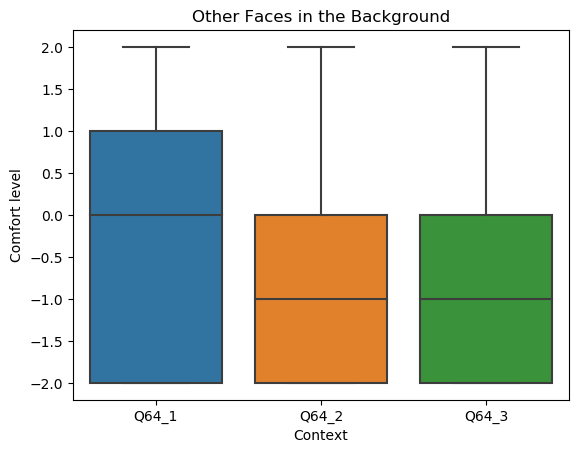
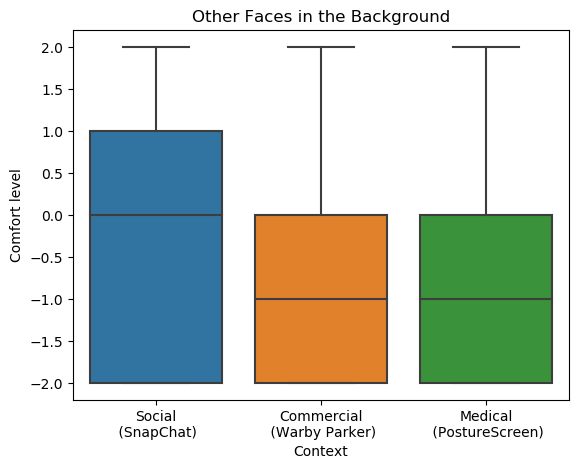
Updated graphs to infer context and group accordingly

diff --git a/data_analysis_ar_attitudes.py b/data_analysis_ar_attitudes.py
@@ -117,35 +117,37 @@ LABEL_DEMO_COUNTRY  = 'Country'
 LABEL_DEMO_EDU      = 'Education Level'
 LABEL_DEMO_TECHIE   = 'Tech-Savviness'
 
-D_VIS_FACE_CORE     = (COL_VIS_FACE_CORE,   LABEL_VIS_FACE_CORE)
-D_AUD_INTENTIONAL   = (COL_AUD_INTENTIONAL, LABEL_AUD_INTENTIONAL)
-D_AUD_BACKGROUND    = (COL_AUD_BACKGROUND,  LABEL_AUD_BACKGROUND)
-D_VIS_PUPIL         = (COL_VIS_PUPIL,       LABEL_VIS_PUPIL)
-D_VIS_BKGD_OTHERS   = (COL_VIS_BKGD_OTHERS,   LABEL_VIS_BKGD_OTHERS)
-D_VIS_BKGD_ME       = (COL_VIS_BKGD_ME,       LABEL_VIS_BKGD_ME)
-D_VIS_FACE_ALG      = (COL_VIS_FACE_ALG,      LABEL_VIS_FACE_ALG)
-D_VIS_NN_INTENT     = (COL_VIS_NN_INTENT,     LABEL_VIS_NN_INTENT)
-D_VIS_NN_ACCIDENT   = (COL_VIS_NN_ACCIDENT,   LABEL_VIS_NN_ACCIDENT)
-D_VIS_OBJ_MEDS      = (COL_VIS_OBJ_MEDS,      LABEL_VIS_OBJ_MEDS)
-D_VIS_OBJ_SEX       = (COL_VIS_OBJ_SEX,       LABEL_VIS_OBJ_SEX)
-D_VIS_OBJ_MESSY     = (COL_VIS_OBJ_MESSY,     LABEL_VIS_OBJ_MESSY)
-D_VIS_OBJ_LICENSE   = (COL_VIS_OBJ_LICENSE,   LABEL_VIS_OBJ_LICENSE)
-D_LOCATION          = (COL_LOCATION,          LABEL_LOCATION)
-D_PAYMENT           = (COL_PAYMENT,           LABEL_PAYMENT)
+label_of = {}
+label_of[COL_AUD_INTENTIONAL]   = LABEL_AUD_INTENTIONAL
+label_of[COL_AUD_BACKGROUND]    = LABEL_AUD_BACKGROUND
 
+label_of[COL_VIS_FACE_CORE]     = LABEL_VIS_FACE_CORE
+label_of[COL_VIS_PUPIL]         = LABEL_VIS_PUPIL
+label_of[COL_VIS_BKGD_OTHERS]   = LABEL_VIS_BKGD_OTHERS
+label_of[COL_VIS_BKGD_ME]       = LABEL_VIS_BKGD_ME
+label_of[COL_VIS_FACE_ALG]      = LABEL_VIS_FACE_ALG
+label_of[COL_VIS_NN_INTENT]     = LABEL_VIS_NN_INTENT
+label_of[COL_VIS_NN_ACCIDENT]   = LABEL_VIS_NN_ACCIDENT
+label_of[COL_VIS_OBJ_MEDS]      = LABEL_VIS_OBJ_MEDS
+label_of[COL_VIS_OBJ_SEX]       = LABEL_VIS_OBJ_SEX
+label_of[COL_VIS_OBJ_MESSY]     = LABEL_VIS_OBJ_MESSY
+label_of[COL_VIS_OBJ_LICENSE]   = LABEL_VIS_OBJ_LICENSE
 
-SOLO_ANALYSES = [D_VIS_FACE_CORE, D_AUD_INTENTIONAL, D_AUD_BACKGROUND, D_VIS_PUPIL, 
-                D_VIS_BKGD_OTHERS, D_VIS_BKGD_ME, D_VIS_FACE_ALG, D_VIS_NN_INTENT, 
-                D_VIS_NN_ACCIDENT, D_VIS_OBJ_MEDS, D_VIS_OBJ_SEX, D_VIS_OBJ_MESSY,
-                D_VIS_OBJ_LICENSE, D_LOCATION, D_PAYMENT]
+label_of[COL_LOCATION]          = LABEL_LOCATION
+label_of[COL_PAYMENT]           = LABEL_PAYMENT
+
+SOLO_ANALYSES = [COL_VIS_FACE_CORE, COL_AUD_INTENTIONAL, COL_AUD_BACKGROUND, COL_VIS_PUPIL, 
+                COL_VIS_BKGD_OTHERS, COL_VIS_BKGD_ME, COL_VIS_FACE_ALG, COL_VIS_NN_INTENT, 
+                COL_VIS_NN_ACCIDENT, COL_VIS_OBJ_MEDS, COL_VIS_OBJ_SEX, COL_VIS_OBJ_MESSY,
+                COL_VIS_OBJ_LICENSE, COL_LOCATION, COL_PAYMENT]
 
 CROSS_ANALYSIS = {}
-CROSS_ANALYSIS['audio']         = [D_AUD_INTENTIONAL,    D_AUD_BACKGROUND]
-CROSS_ANALYSIS['near-nudity']   = [D_VIS_NN_INTENT,      D_VIS_NN_ACCIDENT]
-CROSS_ANALYSIS['visual']        = [D_VIS_OBJ_MEDS, D_VIS_OBJ_SEX, D_VIS_OBJ_MESSY, D_VIS_OBJ_LICENSE]
-CROSS_ANALYSIS['all']           = [D_VIS_PUPIL, D_VIS_BKGD_OTHERS, D_VIS_BKGD_ME, D_VIS_FACE_ALG, D_VIS_NN_INTENT, 
-                                    D_VIS_NN_ACCIDENT, D_VIS_OBJ_MEDS, D_VIS_OBJ_SEX, D_VIS_OBJ_MESSY,
-                                    D_VIS_OBJ_LICENSE]
+CROSS_ANALYSIS['audio']         = [COL_AUD_INTENTIONAL,    COL_AUD_BACKGROUND]
+CROSS_ANALYSIS['near-nudity']   = [COL_VIS_NN_INTENT,      COL_VIS_NN_ACCIDENT]
+CROSS_ANALYSIS['visual']        = [COL_VIS_OBJ_MEDS, COL_VIS_OBJ_SEX, COL_VIS_OBJ_MESSY, COL_VIS_OBJ_LICENSE]
+CROSS_ANALYSIS['all']           = [COL_VIS_PUPIL, COL_VIS_BKGD_OTHERS, COL_VIS_BKGD_ME, COL_VIS_FACE_ALG, COL_VIS_NN_INTENT, 
+                                    COL_VIS_NN_ACCIDENT, COL_VIS_OBJ_MEDS, COL_VIS_OBJ_SEX, COL_VIS_OBJ_MESSY,
+                                    COL_VIS_OBJ_LICENSE]
 
 
 def create_dir(filename):
@@ -256,9 +258,12 @@ def make_boxplot(df, cols, title, fn):
     plt.figure()
 
     df_new = df[cols]
+    df_newest = pd.melt(df_new)
+    df_newest['context'] = df_newest.apply(lambda row: context_map[cols.index(row['variable'])], axis=1)
+
     print("\tMAKING BOXPLOT")
     # print(df.values)
-    bx = sns.boxplot(x="variable", y="value", data=pd.melt(df_new))
+    bx = sns.boxplot(x="context", y="value", data=df_newest)
 
     # plt.tight_layout()
     # title = al_title[analysis] + "\n" + al_y_range
@@ -296,7 +301,8 @@ def make_cross_df(df, fn):
     df_total = None
 
     for c in cross:
-        col, title = c
+        col = c
+        title = label_of[col]
         cols = get_subcols(col)
         df_new = df[cols]
         df_new = pd.melt(df_new)
@@ -313,7 +319,7 @@ def make_cross_df(df, fn):
 
 
     print(df_total)
-    df_total['value'] = [mapping[item] for item in df_total['value']]
+    # df_total['value'] = [mapping[item] for item in df_total['value']]
     return df_total
 
 def make_boxplot_2way(df, title):
@@ -325,7 +331,9 @@ def make_boxplot_2way(df, title):
     print("\tMAKING BOXPLOT - 2WAY")
     # print(df.values)
     # bx = sns.boxplot(x="variable", y="value", data=df)
-    bx = sns.boxplot(data=df, x='question', y='value', hue='context') #, order=cat_order)
+    # sorted_index = df.median().sort_values().index
+    # print(sorted_index)
+    bx = sns.boxplot(data=df, x='question', y='value', hue='context', ) #, order=cat_order)
 
     plt.tight_layout()
     # title = al_title[analysis] + "\n" + al_y_range
@@ -416,11 +424,11 @@ df = df.drop(1)
 df = df.drop(0)
 print(df.columns)
 
-sus = [D_VIS_NN_ACCIDENT, D_VIS_OBJ_SEX, D_VIS_OBJ_LICENSE]
+sus = [COL_VIS_NN_ACCIDENT, COL_VIS_OBJ_SEX, COL_VIS_OBJ_LICENSE]
 
-for analysis in []: #SOLO_ANALYSES:
-    print(analysis)
-    col, label = analysis
+for col in SOLO_ANALYSES:
+    print(col)
+    label = label_of[col]
     fn = col
     cols = get_subcols(col)
 
@@ -430,10 +438,11 @@ for analysis in []: #SOLO_ANALYSES:
         df[col] = [mapping[item] for item in df[col]]
 
     df_cols = df[cols]
+
     make_boxplot(df_cols, cols, label, fn)
     make_anova(df_cols, cols, label, fn)
 
-    if analysis in sus:
+    if col in sus:
         # print(df_cols)
         pass
 
